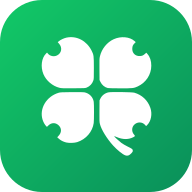
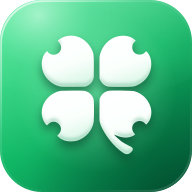
App instalada: icono nuevo con brillo y volumen, y nombre Riffast
Fondo verde degradado con luz, brillo de vidrio y filo luminoso; trebol blanco con
volumen y sombra (iPhone, Android y maskable). La app instalada se llama Riffast
(antes Riffast ADMIN); la pestana del navegador sigue diciendo Riffast | ADMIN.

diff --git a/apps/web/src/hooks/usePwaBranding.ts b/apps/web/src/hooks/usePwaBranding.ts
@@ -5,7 +5,8 @@ import { publicService } from '@/services/publicSite';
 import { apiAssetUrl } from '@/lib/api';
 
 const SITE = '_'; // alias single-tenant: "el rifero de este sitio"
-const ADMIN_TITLE = 'Riffast | ADMIN';
+// Nombre de la app instalada (debajo del ícono en la pantalla de inicio).
+const ADMIN_APP_NAME = 'Riffast';
 
 // El administrador (/admin, /login) es SIEMPRE la marca Riffast, nunca la del
 // rifero: el panel es del producto (Riffast), no del organizador.
@@ -58,7 +59,7 @@ function setAppleStatusBar(style: 'default' | 'black-translucent'): void {
 // Aplica la marca de la PWA (favicon de la pestaña, ícono de A2HS, nombre y
 // manifest) según la sección, y la reafirma al navegar dentro de la SPA:
 //   - Administrador (/admin, /login): SIEMPRE Riffast. Logo de Riffast (nunca el
-//     del rifero), nombre "Riffast | ADMIN" y manifest que abre directo en /admin.
+//     del rifero), nombre de app "Riffast" y manifest que abre directo en /admin.
 //   - Público: la identidad del rifero del sitio (su logo como favicon y su nombre).
 // En producción el backend ya inyecta lo correcto en el HTML inicial (ver
 // site-html.ts); esto lo garantiza también en desarrollo y tras navegar.
@@ -78,7 +79,7 @@ export function usePwaBranding(): void {
   useEffect(() => {
     if (isAdmin) {
       setManifest('/admin.webmanifest');
-      setAppleTitle(ADMIN_TITLE);
+      setAppleTitle(ADMIN_APP_NAME);
       setAppleStatusBar('default');
       setIcon('/favicon.svg');
       setAppleTouchIcon('/apple-touch-icon.png');

diff --git a/apps/api/src/lib/site-html.ts b/apps/api/src/lib/site-html.ts
@@ -128,7 +128,8 @@ export function injectMeta(
   return html;
 }
 
-const ADMIN_TITLE = 'Riffast | ADMIN';
+const ADMIN_TITLE = 'Riffast | ADMIN'; // pestaña del navegador
+const ADMIN_APP_NAME = 'Riffast'; // nombre debajo del ícono de la app instalada
 // Mismo gris que el fondo del panel (debe coincidir con ADMIN_THEME_COLOR de
 // apps/web/src/store/theme.ts).
 const ADMIN_THEME_COLOR = '#F5F5F7';
@@ -141,7 +142,7 @@ const ADMIN_THEME_COLOR = '#F5F5F7';
 function renderAdminIndex(rawHtml: string): string {
   let html = rawHtml;
   html = html.replace(/<title>[\s\S]*?<\/title>/, `<title>${ADMIN_TITLE}</title>`);
-  html = setName(html, 'apple-mobile-web-app-title', ADMIN_TITLE);
+  html = setName(html, 'apple-mobile-web-app-title', ADMIN_APP_NAME);
   // El panel es claro (fondo #F5F5F7, estilo iOS). iOS lee la barra de estado
   // del HTML al abrir la app instalada: con «black-translucent» el reloj y la
   // batería salían en blanco sobre blanco. «default» = texto oscuro legible.
